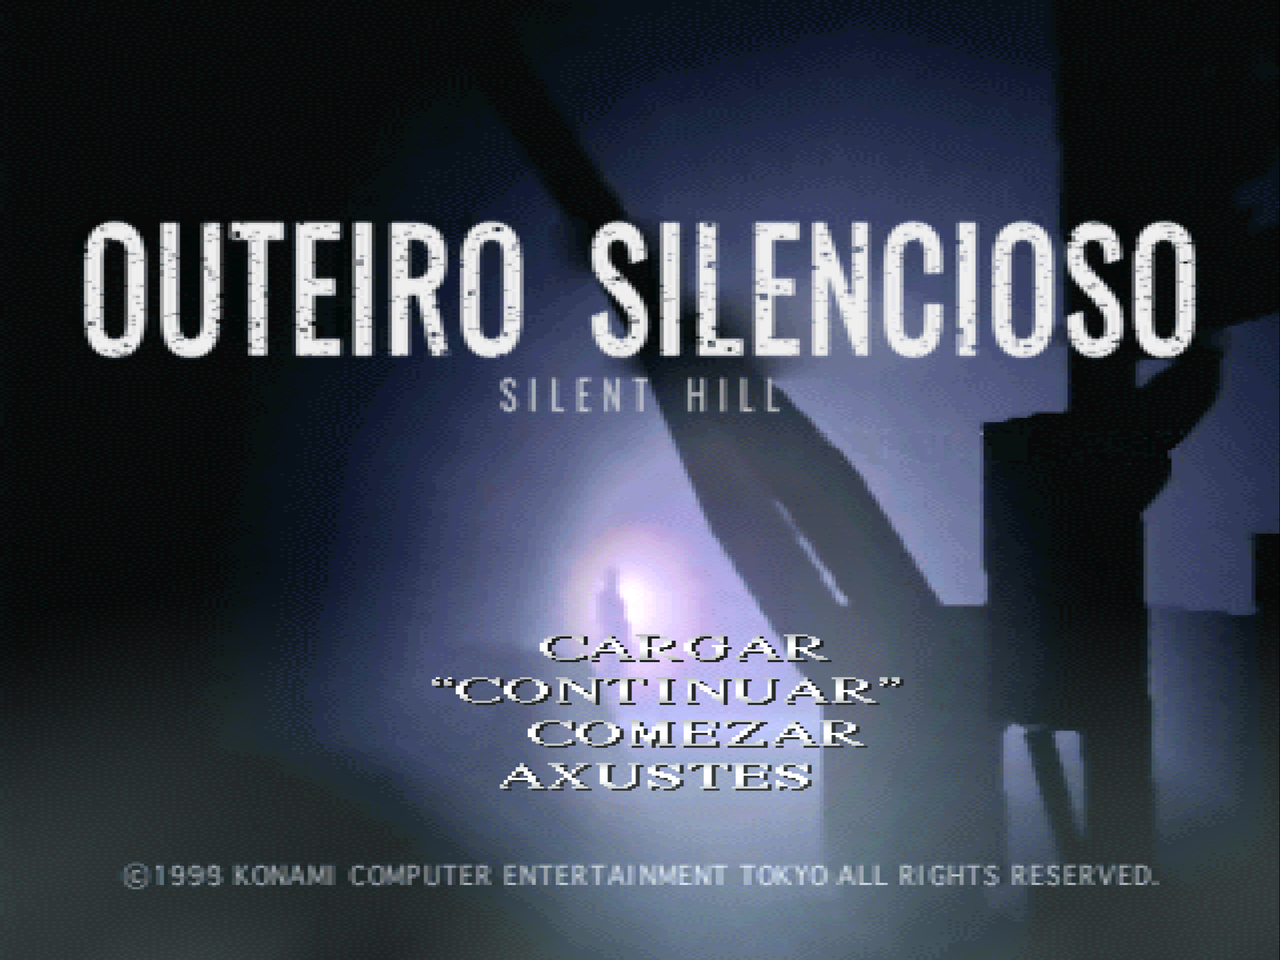
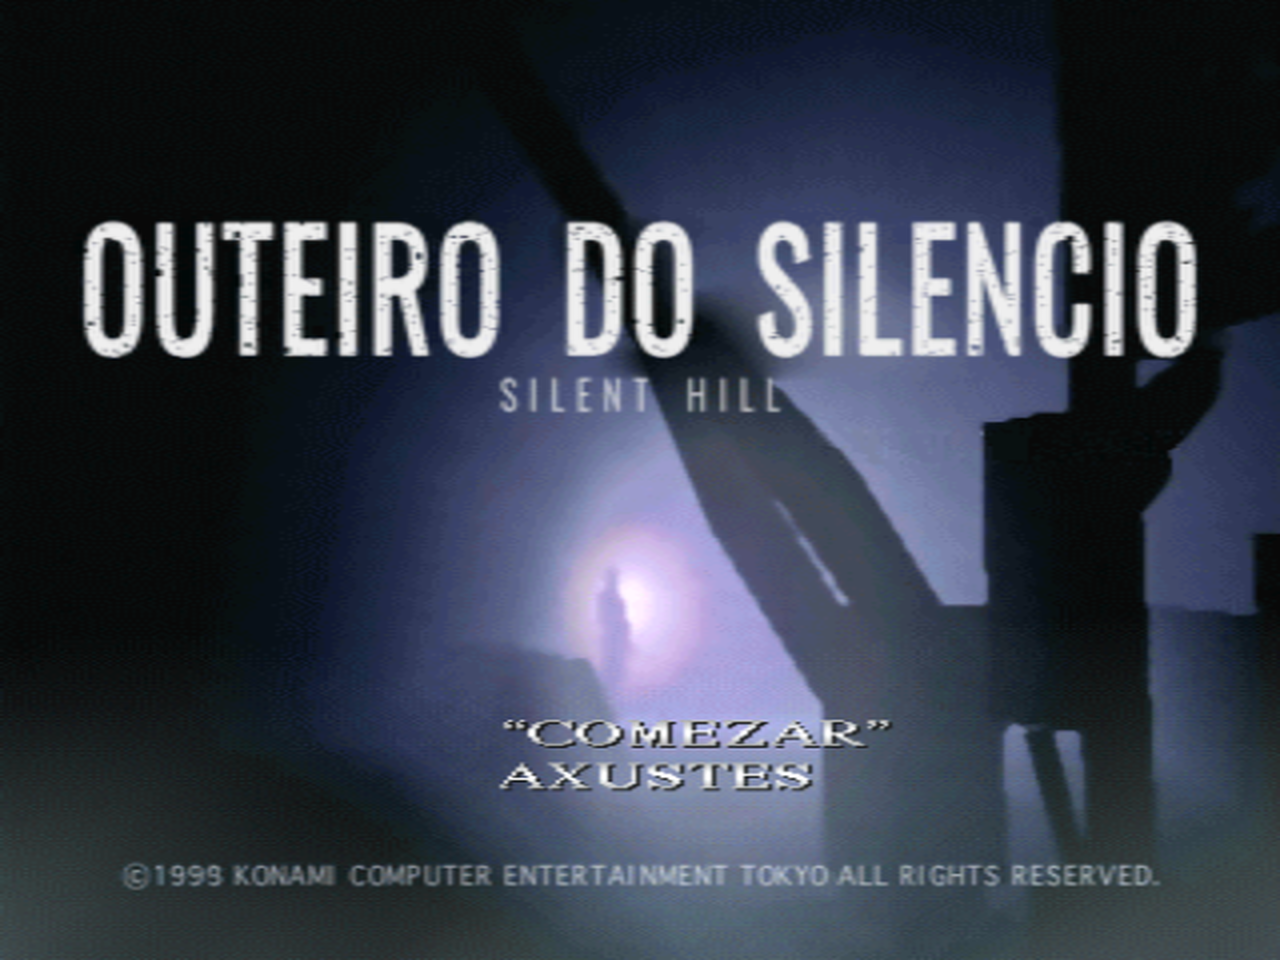
Silent Hill 0.9.3: portada «Outeiro do Silencio»

diff --git a/web/content/xogos/silent-hill/index.md b/web/content/xogos/silent-hill/index.md
@@ -1,8 +1,8 @@
 ---
 title: "Silent Hill"
 date: 2026-11-07
-lastmod: 2026-11-07
-subtitulo: "Outeiro Silencioso: o clásico do terror de PlayStation, en galego e con voces."
+lastmod: 2026-11-12
+subtitulo: "Outeiro do Silencio: o clásico do terror de PlayStation, en galego e con voces."
 sistema: "PS1"
 # outros sistemas para os que tamén hai parche (saen na tarxeta e no filtro)
 tamen_en: ["PC"]
@@ -10,7 +10,7 @@ plataforma: "PlayStation e PC (Linux)"
 ano: 1999
 compania: "Konami"
 xenero: "Terror"
-version: "0.9.2"
+version: "0.9.3"
 estado: "Completa, con dobraxe opcional"
 
 probada: false
@@ -65,12 +65,12 @@ instalador:
 
 descargas:
   - nome: "PlayStation, con dobraxe"
-    nota: "Versión 0.9.2 (.zip, 33 MB). Parche xdelta: textos e voces"
-    url: "https://github.com/enxebre-traducions/enxebre-traducions.github.io/releases/download/silent-hill-v0.9.2/Silent-Hill-en-galego-PS1-0.9.2.zip"
+    nota: "Versión 0.9.3 (.zip, 33 MB). Parche xdelta: textos e voces"
+    url: "https://github.com/enxebre-traducions/enxebre-traducions.github.io/releases/download/silent-hill-v0.9.3/Silent-Hill-en-galego-PS1-0.9.3.zip"
     destacada: true
   - nome: "PlayStation, só textos"
-    nota: "Versión 0.9.2 (.zip, 2 MB). Voces orixinais en inglés"
-    url: "https://github.com/enxebre-traducions/enxebre-traducions.github.io/releases/download/silent-hill-v0.9.2/Silent-Hill-en-galego-PS1-0.9.2-so-textos.zip"
+    nota: "Versión 0.9.3 (.zip, 2 MB). Voces orixinais en inglés"
+    url: "https://github.com/enxebre-traducions/enxebre-traducions.github.io/releases/download/silent-hill-v0.9.3/Silent-Hill-en-galego-PS1-0.9.3-so-textos.zip"
   - nome: "PC (Linux), con dobraxe"
     nota: "Versión 0.9.2 (.zip, 49 MB). Instalador: textos e voces"
     url: "https://github.com/enxebre-traducions/enxebre-traducions.github.io/releases/download/silent-hill-v0.9.2/Silent-Hill-en-galego-PC-0.9.2.zip"
@@ -95,9 +95,9 @@ Está traducido enteiro ao galego e tamén dobrado: cada personaxe fala coa súa
 
 Hai dúas versións, cos mesmos textos: un parche para o disco de PlayStation e un instalador para o port de PC en Linux, e cada unha vén con dobraxe ou só con textos.
 
-### Por que «Outeiro Silencioso»
+### Por que «Outeiro do Silencio»
 
-A pantalla do título pon «Outeiro Silencioso», cun «Silent Hill» pequeno debaixo, porque nos fixo graza traducilo. É só iso: no resto do xogo o pobo chámase Silent Hill, como debe ser.
+A pantalla do título pon «Outeiro do Silencio», cun «Silent Hill» pequeno debaixo, porque nos fixo graza traducilo. É só iso: no resto do xogo o pobo chámase Silent Hill, como debe ser. (No paquete de PC, que segue na versión 0.9.2, aínda pon «Outeiro Silencioso».)
 
 ### Na PlayStation
 
